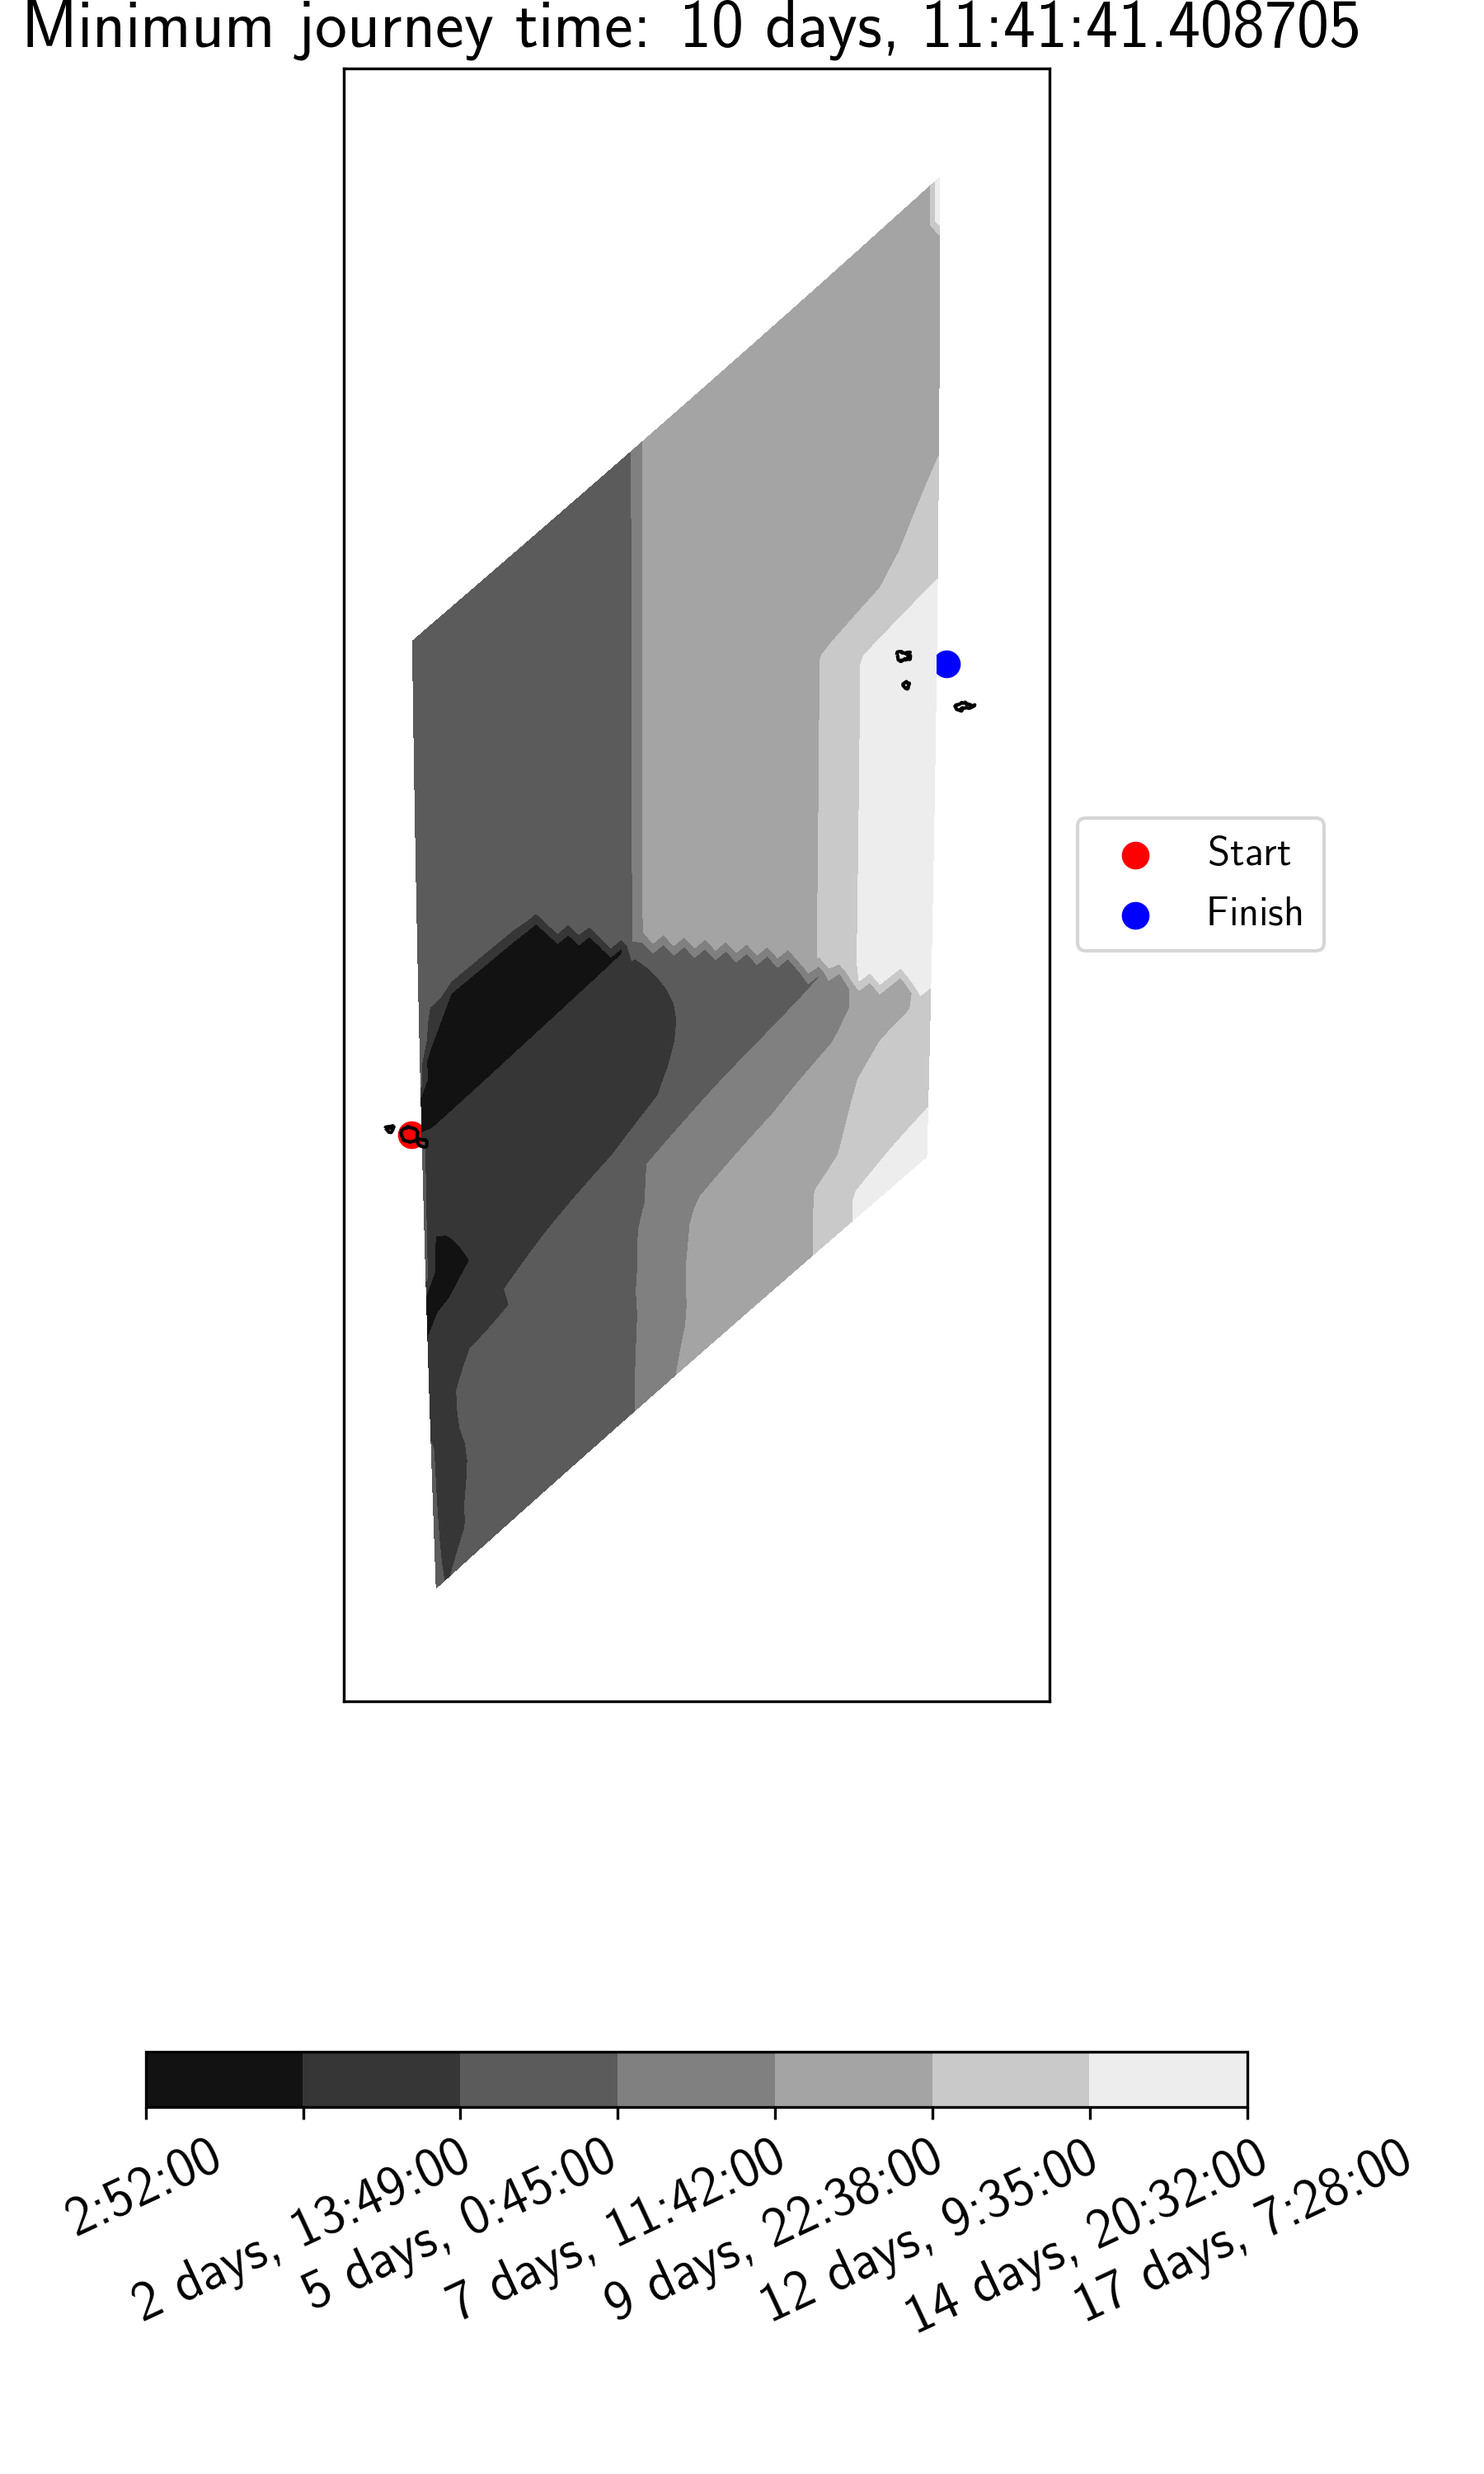
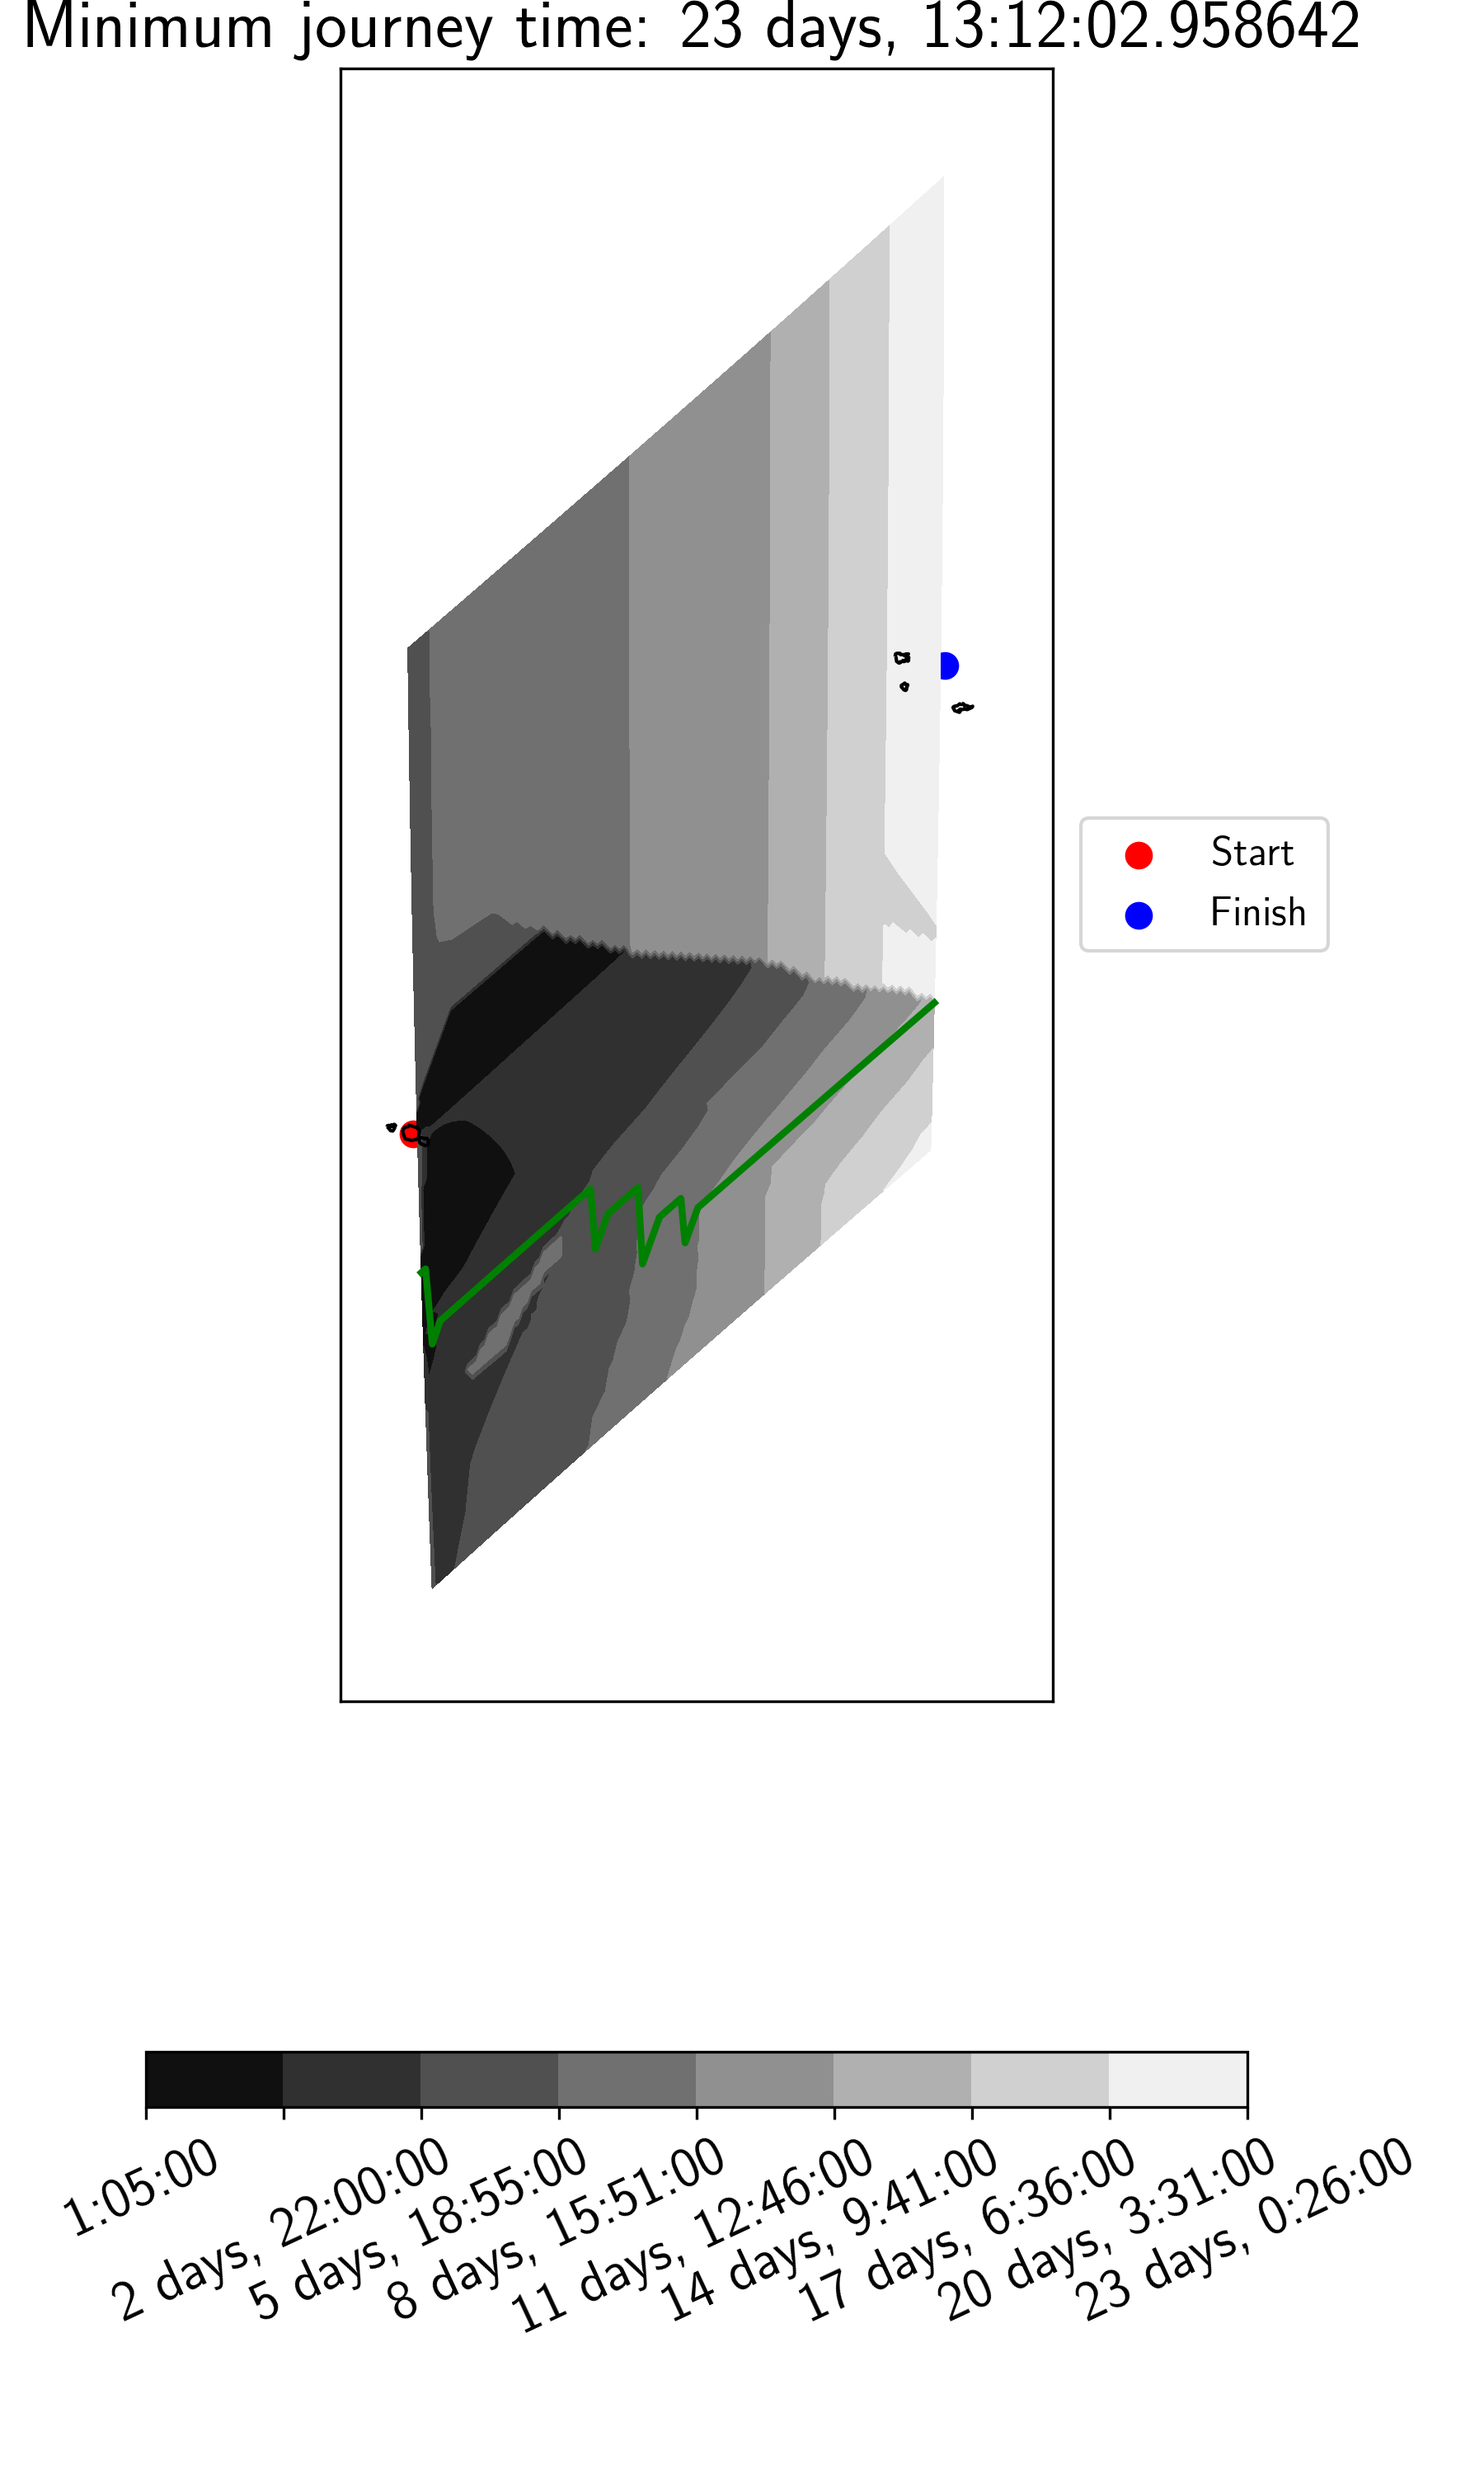
so many errors

diff --git a/sail_route/sail_routing.py b/sail_route/sail_routing.py
@@ -22,6 +22,7 @@ from sail_route.weather.weather_assistance import return_domain, \
                                        setup_interpolator
 warnings.filterwarnings("ignore")
 
+
 def recompile_nb_code():
     this_module = sys.modules[__name__]
     module_members = inspect.getmembers(this_module)
@@ -84,25 +85,24 @@ def min_time_calculate(route, time, craft, x, y, land, tws, twd, wd, wh, wp):
     journey_time = 10**10
 
     for i in range(route.n_width):
-        if land[i, 0] is True:
-            earl_time[i, 0] == np.inf
-        i_tws = tws_interp([x[i, 0], y[i, 0], time]).data
-        i_twd = twd_interp([x[i, 0], y[i, 0], time]).data
-        i_wd = wd_interp([x[i, 0], y[i, 0], time]).data
-        i_wh = wh_interp([x[i, 0], y[i, 0], time]).data
-        i_wp = wp_interp([x[i, 0], y[i, 0], time]).data
+        i_tws = tws_interp([x[0, i], y[0, i], time]).data
+        i_twd = twd_interp([x[0, i], y[0, i], time]).data
+        i_wd = wd_interp([x[0, i], y[0, i], time]).data
+        i_wh = wh_interp([x[0, i], y[0, i], time]).data
+        i_wp = wp_interp([x[0, i], y[0, i], time]).data
         travel_time, pf = cost_function(route.start.long,
                                         route.start.lat,
-                                        x[i, 0], y[i, 0],
+                                        x[0, i], y[0, i],
                                         i_tws, i_twd,
                                         i_wd, i_wh, i_wp,
                                         craft)
         total_time = time + travel_time
-        pf_vals[i, :] = pf
-        earl_time[i, 0] = total_time.timestamp()
-
-    for j in range(route.n_ranks-1):
-        for i in range(route.n_width):
+        pf_vals[0, i] = pf
+        earl_time[0, i] = total_time.timestamp()
+        if land[0, i] is True:
+            earl_time[0, i] == np.inf
+    for i in range(route.n_ranks-1):
+        for j in range(route.n_width):
             utime = datetime.fromtimestamp(earl_time[i, j])
             i_wd = wd_interp([x[i, j], y[i, j], time]).data
             i_wh = wh_interp([x[i, j], y[i, j], time]).data
@@ -111,42 +111,46 @@ def min_time_calculate(route, time, craft, x, y, land, tws, twd, wd, wh, wp):
             i_twd = twd_interp([x[i, j], y[i, j], time]).data
             lifetime = utime - time
             for k in range(route.n_width):
-                    if land[k, j+1] is True:
-                        earl_time[k, j+1] == np.inf
+                    if land[i+1, k] is True:
+                        earl_time[i+1, k] == np.inf
                     else:
                         travel_time, pf = cost_function(x[i, j],
                                                         y[i, j],
-                                                        x[k, j+1],
-                                                        y[k, j+1],
+                                                        x[i+1, k],
+                                                        y[i+1, k],
                                                         i_tws, i_twd,
                                                         i_wd, i_wh, i_wp,
                                                         craft,
                                                         lifetime)
                     jt = utime + travel_time
-                    if jt.timestamp() < earl_time[k, j+1]:
-                        earl_time[k, j+1] = jt.timestamp()
-                        pf_vals[k, j+1] = pf
-                        pindxs[k, j+1] = indxs[i, j]
-
+                    if jt.timestamp() < earl_time[i+1, k]:
+                        earl_time[i+1, k] = jt.timestamp()
+                        pf_vals[i+1, k] = pf
+                        pindxs[i+1, k] = indxs[i, j]
+    # print(x)
+    # print(y)
+    # print(earl_time)
+    # print(indxs)
+    # print(pindxs)
     for i in range(route.n_width):
-        time = datetime.fromtimestamp(earl_time[i, -1])
-        i_tws = tws_interp([x[i, -1],
-                           y[i, -1], time]).data
-        i_twd = twd_interp([x[i, -1],
-                           y[i, -1], time]).data
-        travel_time, pf = cost_function(x[i, -1],
-                                        y[i, -1],
+        time = datetime.fromtimestamp(earl_time[-1, i])
+        i_tws = tws_interp([x[-1, i],
+                           y[-1, i], time]).data
+        i_twd = twd_interp([x[-1, i],
+                           y[-1, i], time]).data
+        travel_time, pf = cost_function(x[-1, i],
+                                        y[-1, i],
                                         route.finish.long,
                                         route.finish.lat,
                                         i_tws, i_twd,
                                         i_wd, i_wh, i_wp,
                                         craft,
                                         lifetime)
-        et = datetime.fromtimestamp(earl_time[i, -1]) + travel_time
+        et = datetime.fromtimestamp(earl_time[-1, i]) + travel_time
         if datetime.fromtimestamp(journey_time) > et:
             journey_time = et.timestamp()
-            pf_vals[i, -1] = pf
-            end_node = indxs[i, -1]
+            pf_vals[-1, i] = pf
+            end_node = indxs[-1, i]
     sp = shortest_path(indxs, pindxs, [end_node])
     x_route, y_route = get_locs(indxs, sp, x, y)
     return journey_time, earl_time, pf_vals, x_route, y_route

diff --git a/sail_route/performance/cost_function.py b/sail_route/performance/cost_function.py
@@ -13,10 +13,11 @@ import datetime
 from numba import jit, njit
 
 
-@njit(fastmath=True)
+@njit(fastmath=True, nogil=True)
 def haversine(lon1, lat1, lon2, lat2):
-    """Calculate the great circle distance between two points."""
-    # convert decimal degrees to radians
+    """Calculate the great circle distance between two points.
+
+    Return the value in km."""
     lon1, lat1, lon2, lat2 = np.radians(np.array([lon1, lat1, lon2, lat2]))
     dlon = lon2 - lon1
     dlat = lat2 - lat1
@@ -27,7 +28,7 @@ def haversine(lon1, lat1, lon2, lat2):
     return dist, bearing
 
 
-@njit(fastmath=True)
+@njit(fastmath=True, nogil=True)
 def wind_strength_step(x):
     """Wind strength failure function."""
     return 1 * (x > 20.0)
@@ -42,27 +43,27 @@ def craft_failure_model(time, tws, twa):
     return np.min((np.max((pf_time, pf_wind)), 1.0))
 
 
-@njit(fastmath=True)
+@njit(fastmath=True, nogil=True)
 def dir_to_relative(x, y):
     """Calculate relative angle to bearing."""
     return np.absolute((x - y + 180) % 360 - 180)
 
 
-@jit(cache=True)
+@jit(cache=True, nogil=True)
 def cost_function(x1, y1, x2, y2, tws, twd, i_wd, i_wh, i_wp,
                   craft, lifetime=None):
     """Calculate the time taken to transit between two locations."""
     dist, bearing = haversine(x1, y1, x2, y2)
     twa = dir_to_relative(bearing, twd)
     speed = craft.return_perf(np.abs(twa), tws)
-    wave_dir = dir_to_relative(bearing, i_wd)
-    if wave_dir < 90.0:
-        speed = 0.0
-    if lifetime is not None:
-        pf = craft_failure_model(lifetime, tws, twa)
-    else:
-        pf = 0.0
-    if speed == 0.0:
-        return datetime.timedelta(hours=200), pf
+    # wave_dir = dir_to_relative(bearing, i_wd)
+    # if wave_dir < 30.0:
+    #     speed = 0.0
+    # if lifetime is not None:
+    #     pf = craft_failure_model(lifetime, tws, twa)
+    # else:
+    pf = 0.0
+    if speed < 0.1:
+        return datetime.timedelta(hours=np.float64(dist/0.01)), pf
     else:
         return datetime.timedelta(hours=np.float64(dist/speed)), pf

diff --git a/analysis/canoe_voyaging.py b/analysis/canoe_voyaging.py
@@ -43,26 +43,33 @@ def load_tongiaki_perf():
     path = pyroute_path + "analysis/poly_data"
     perf = np.genfromtxt(pyroute_path+"/analysis/poly_data/data_dir/tongiaki_vpp.csv", delimiter=",")
     tws = np.array([4, 5, 6, 7, 8, 9, 10, 12, 14, 16, 20])
-    twa = np.array([60, 70, 80, 90, 100, 110, 120])
+    twa = np.array([0, 60, 70, 80, 90, 100, 110, 120])
     return polar(twa, tws, perf, 0.0)
 
 
 def run_simulation_over_days():
+    "Begin routing simulations"
+    "Start: Tahiti"
+    "Finish: Marquesas"
+    "Tongiaki vpp performance"
     tahiti = Location(-149.426, -17.651)
     marquesas = Location(-139.33, -9)
     craft = load_tongiaki_perf()
-    no_nodes = 120
+    n_nodes = 20
+    n_width = n_nodes*4
+    print("Nodes in rank: ", n_nodes)
+    print("Nodes in width: ", n_width)
     dist, bearing = haversine(tahiti.long, tahiti.lat, marquesas.long,
                               marquesas.lat)
-    node_distance = (dist/0.5399565)/no_nodes
-    r = Route(tahiti, marquesas, no_nodes, no_nodes,
-              node_distance*1000.0, craft)
+    node_distance = dist/n_width
+    r = Route(tahiti, marquesas, n_nodes, n_width,
+              node_distance*500, craft)
     pyroute_path = "/home/thomas/Documents/pyroute/"
     wind_fname = pyroute_path + "analysis/poly_data/data_dir/wind_forecast.nc"
     waves_fname = pyroute_path + "analysis/poly_data/data_dir/wave_data.nc"
     dia_path = pyroute_path + "analysis/poly_data"
     sd = datetime(2000, 7, 1, 0, 0)
-    ed = datetime(2000, 7, 10, 0, 0)
+    ed = datetime(2000, 7, 2, 0, 0)
     dt = [d for d in datetime_range(sd, ed, {'days': 1, 'hours': 0})]
     for t in dt:
         x, y, land = return_co_ords(r.start.long, r.finish.long,

diff --git a/sail_route/performance/craft_performance.py b/sail_route/performance/craft_performance.py
@@ -5,7 +5,7 @@ thomas.dickson@soton.ac.uk
 24/04/2018
 """
 import numpy as np
-from scipy.interpolate import interp2d
+from scipy.interpolate import interp2d, RectBivariateSpline
 from numba import jit, jitclass, float64
 
 
@@ -14,16 +14,7 @@ def get_perf():
     perf = np.genfromtxt(path, delimiter=";", skip_header=1)
     return perf[:, 1:]
 
-# spec = [
-#     ('tws_range', float64[:]),
-#     ('twa_range', float64[:]),
-#     ('perf', float64[:]),
-#     ('unc', float64),
-#     ('tws', float64),
-#     ('twa', float64),
-# ]
-#
-# @jitclass(spec)
+
 class polar(object):
     """Store and return information on sailing craft polars."""
 
@@ -38,8 +29,15 @@ class polar(object):
     def return_perf(self, tws, twa):
         """Return sailing craft performance."""
         p = interp2d(self.twa_range, self.tws_range, self.perf,
-                     kind='linear', bounds_error=False, fill_value=0.0)
+                     kind='cubic')  # bounds_error=True, fill_value=0.0)
         return p(twa, tws)
+
+    # @jit(cache=True)
+    # def return_perf(self, tws, twa):
+    #     """Return sailing craft performance."""
+    #     p = RectBivariateSpline(self.tws_range, self.twa_range,
+    #                             self.perf, bbox=[0, 180, 0, 40])
+    #     return p.ev(twa, tws)
 
 
 def return_boat_perf():

diff --git a/sail_route/route/grid_locations.py b/sail_route/route/grid_locations.py
@@ -72,14 +72,15 @@ def gen_indx(x_locs):
     return indx, pindx
 
 
-@jit
+@jit(cache=True)
 def return_co_ords(start_long, finish_long, start_lat, finish_lat,
                    n_ranks=10, n_nodes=10, dist=5000):
     """Return grid co-ordinates between start and finish."""
     grid = gen_grid(start_long, finish_long, start_lat, finish_lat,
                     n_ranks, n_nodes, dist)
     land = check_land(grid)
-    g = np.reshape(np.hstack(grid), (1, -1))
+    land = np.reshape(land, (n_ranks, n_nodes))
+    g = np.reshape(grid, (1, -1))
     x = np.reshape(g[0][::2], (n_ranks, n_nodes))
     y = np.reshape(g[0][1::2], (n_ranks, n_nodes))
     return x, y, np.array(land)
